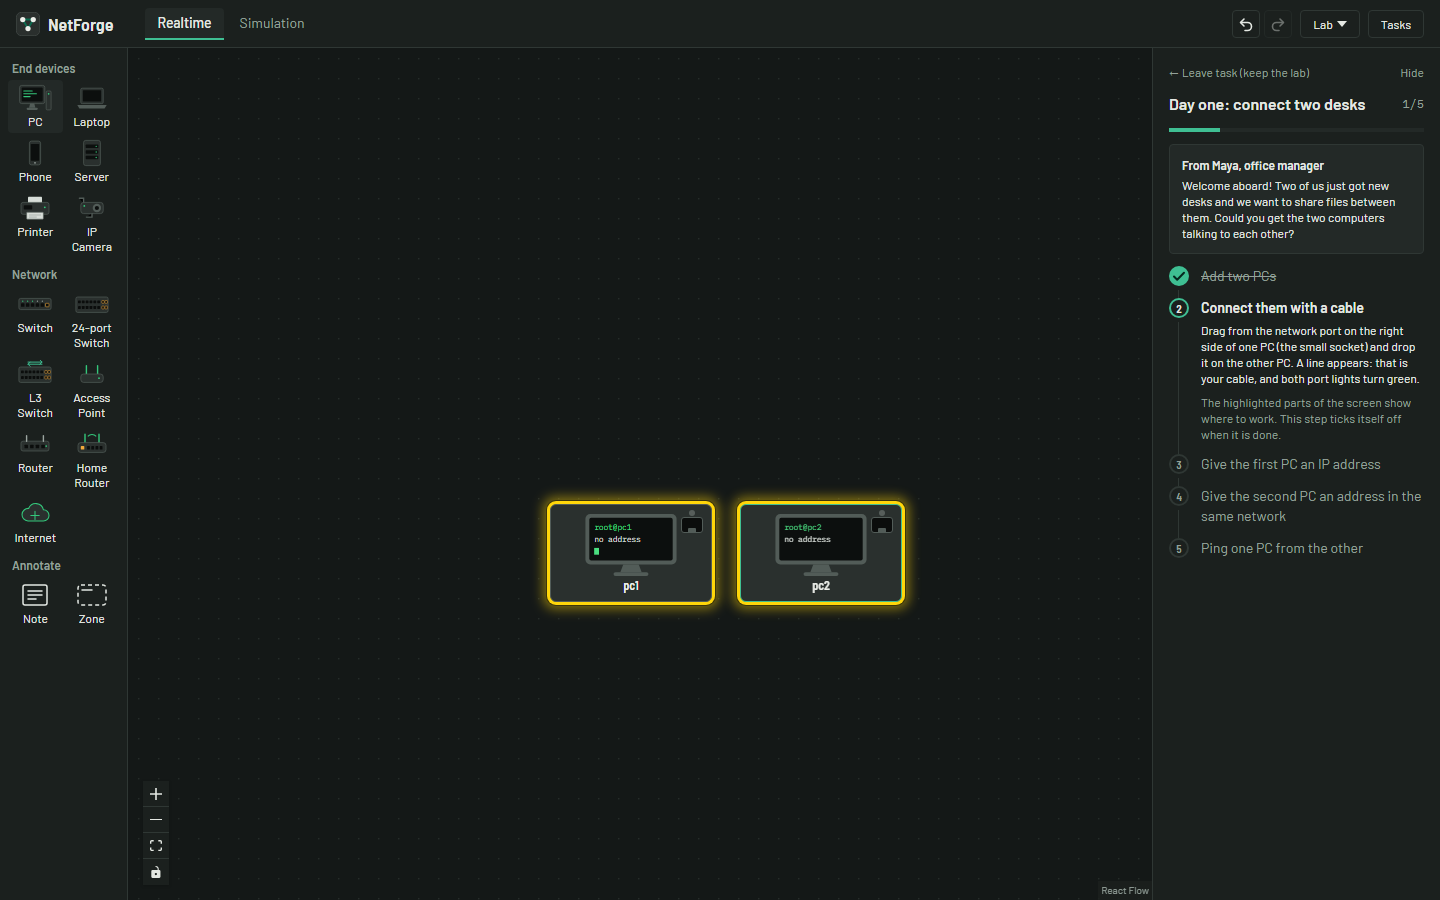
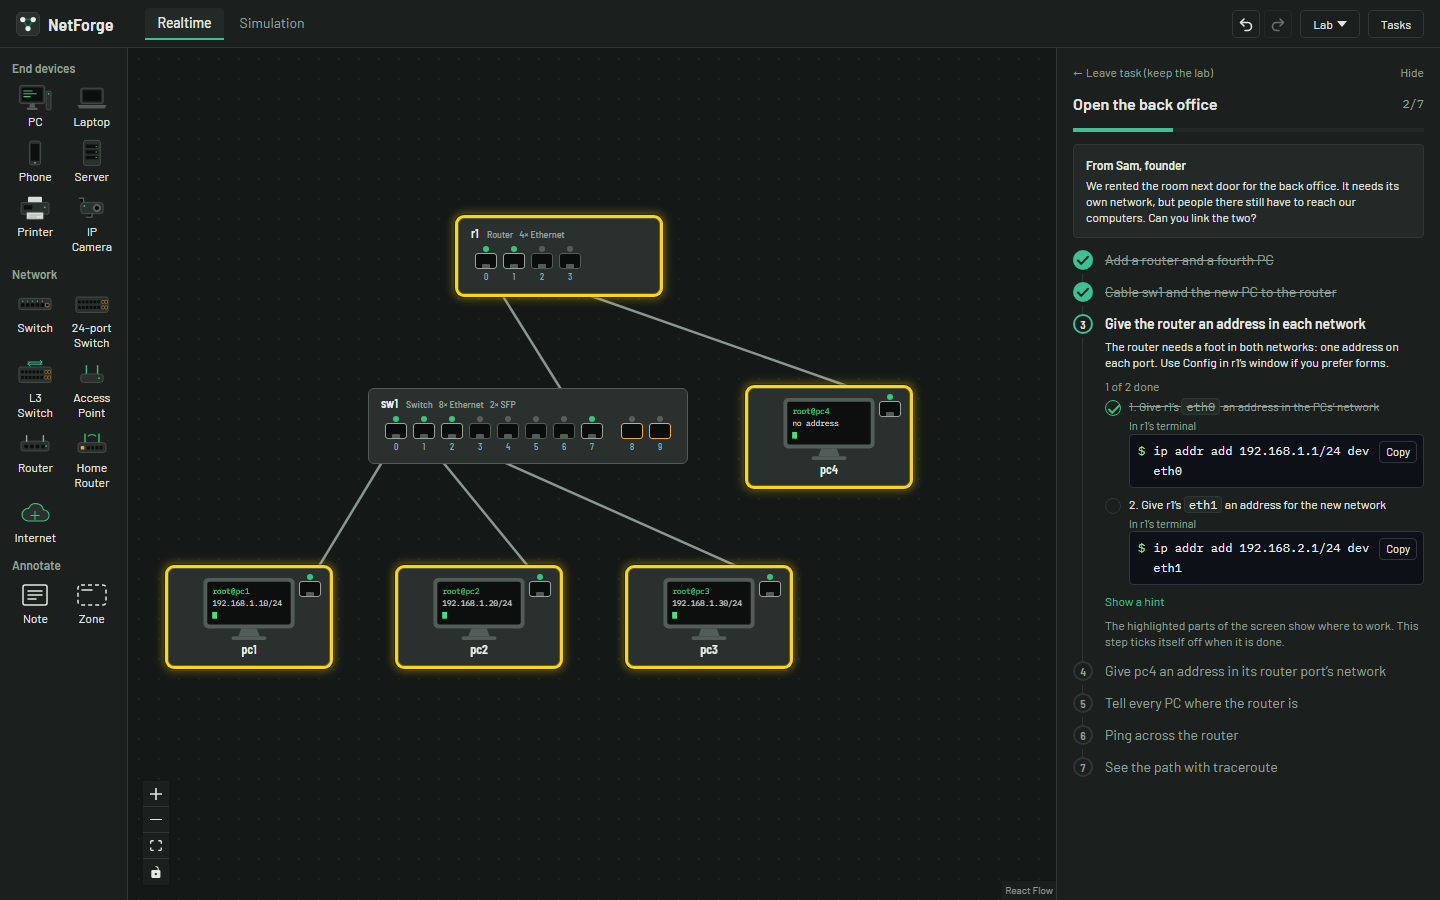
docs: show a step checklist with code boxes in the README screenshot

diff --git a/README.md b/README.md
@@ -30,7 +30,7 @@ follow a guided task that points at what to do next and checks your work.
 | ------------------------------------------------------------------------ | ---------------------------------------------------------------------- |
 | ![A terminal running ping and traceroute](docs/screenshots/terminal.png) | ![Simulation mode listing ARP frames](docs/screenshots/simulation.png) |
 
-![A guided task highlighting the two PCs to cable](docs/screenshots/guided-task.png)
+![A guided task with a step checklist, copyable commands and the devices to work on highlighted](docs/screenshots/guided-task.png)
 
 ## Principles
 
